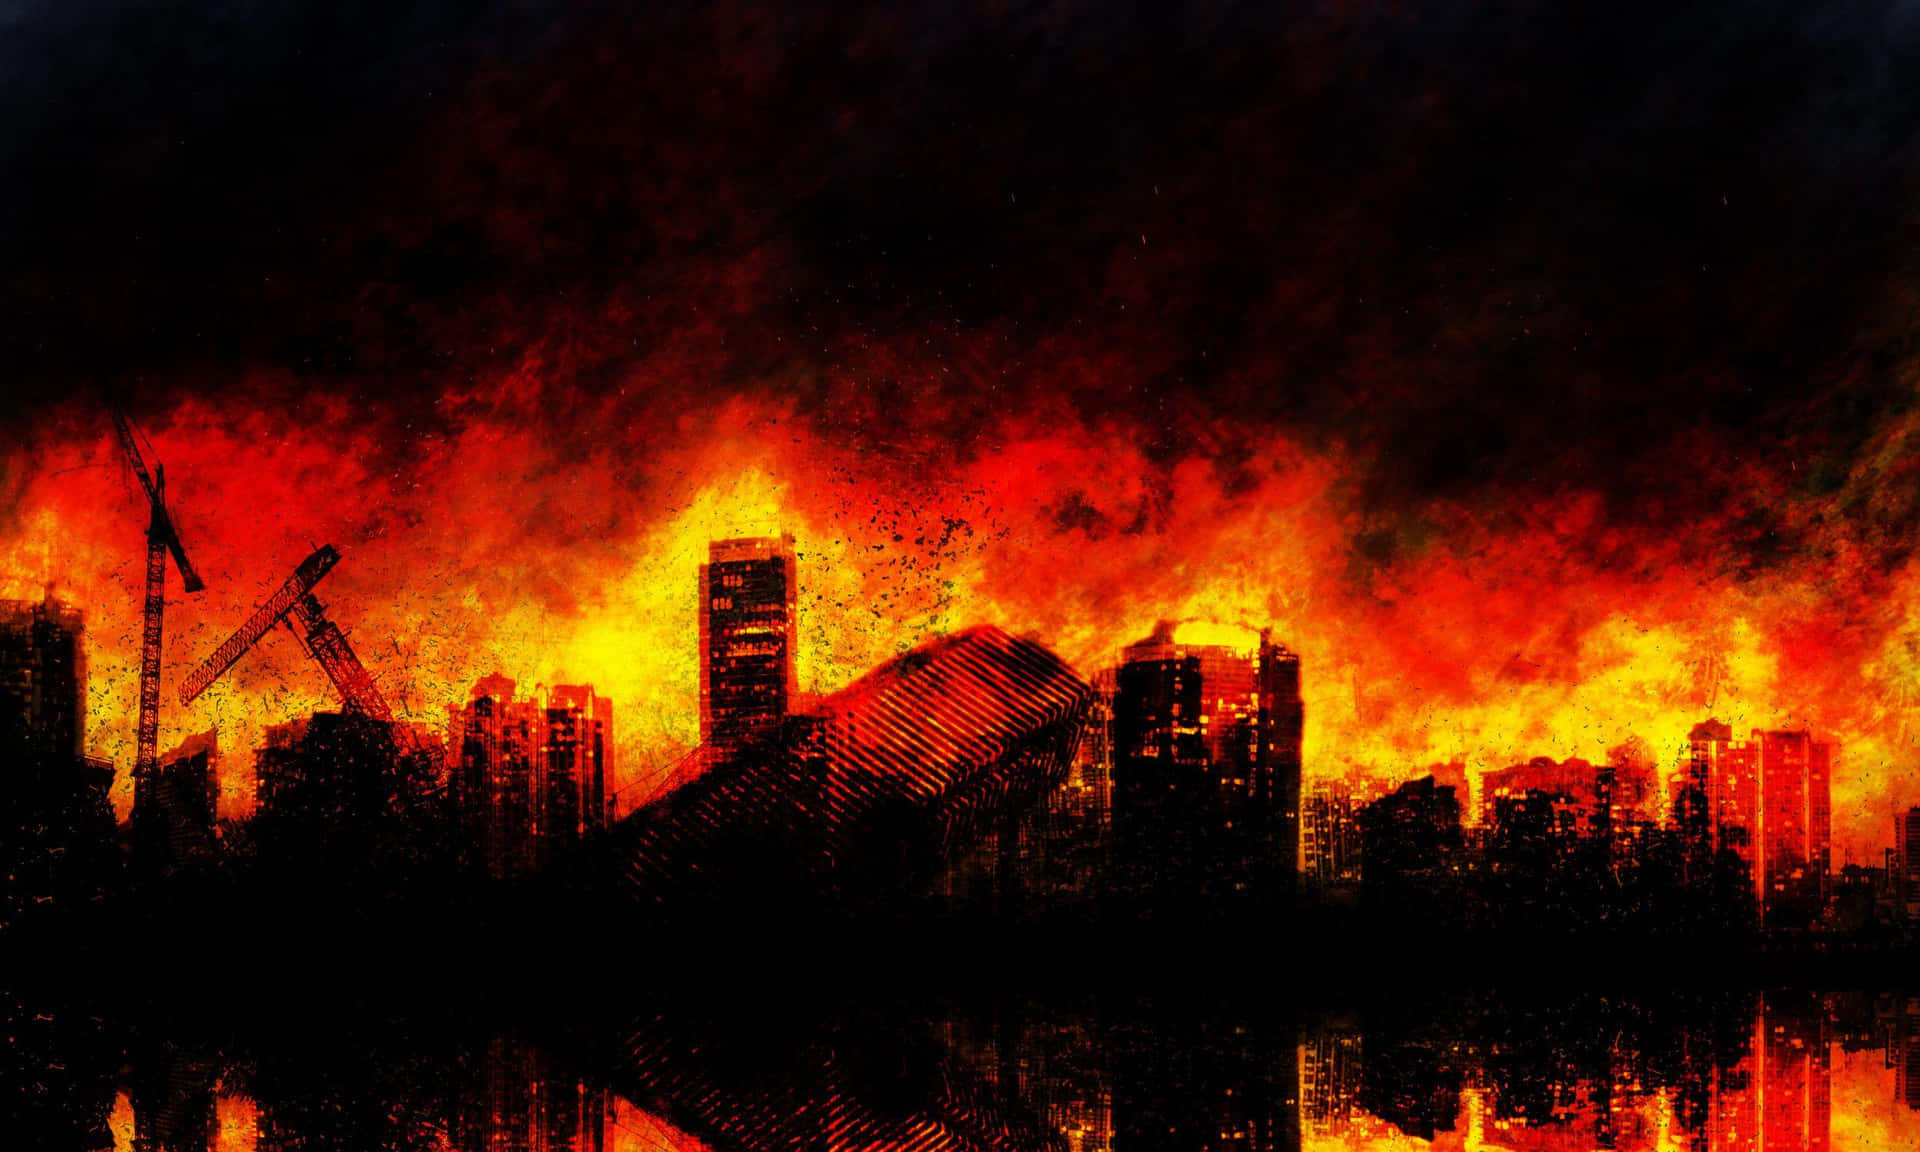
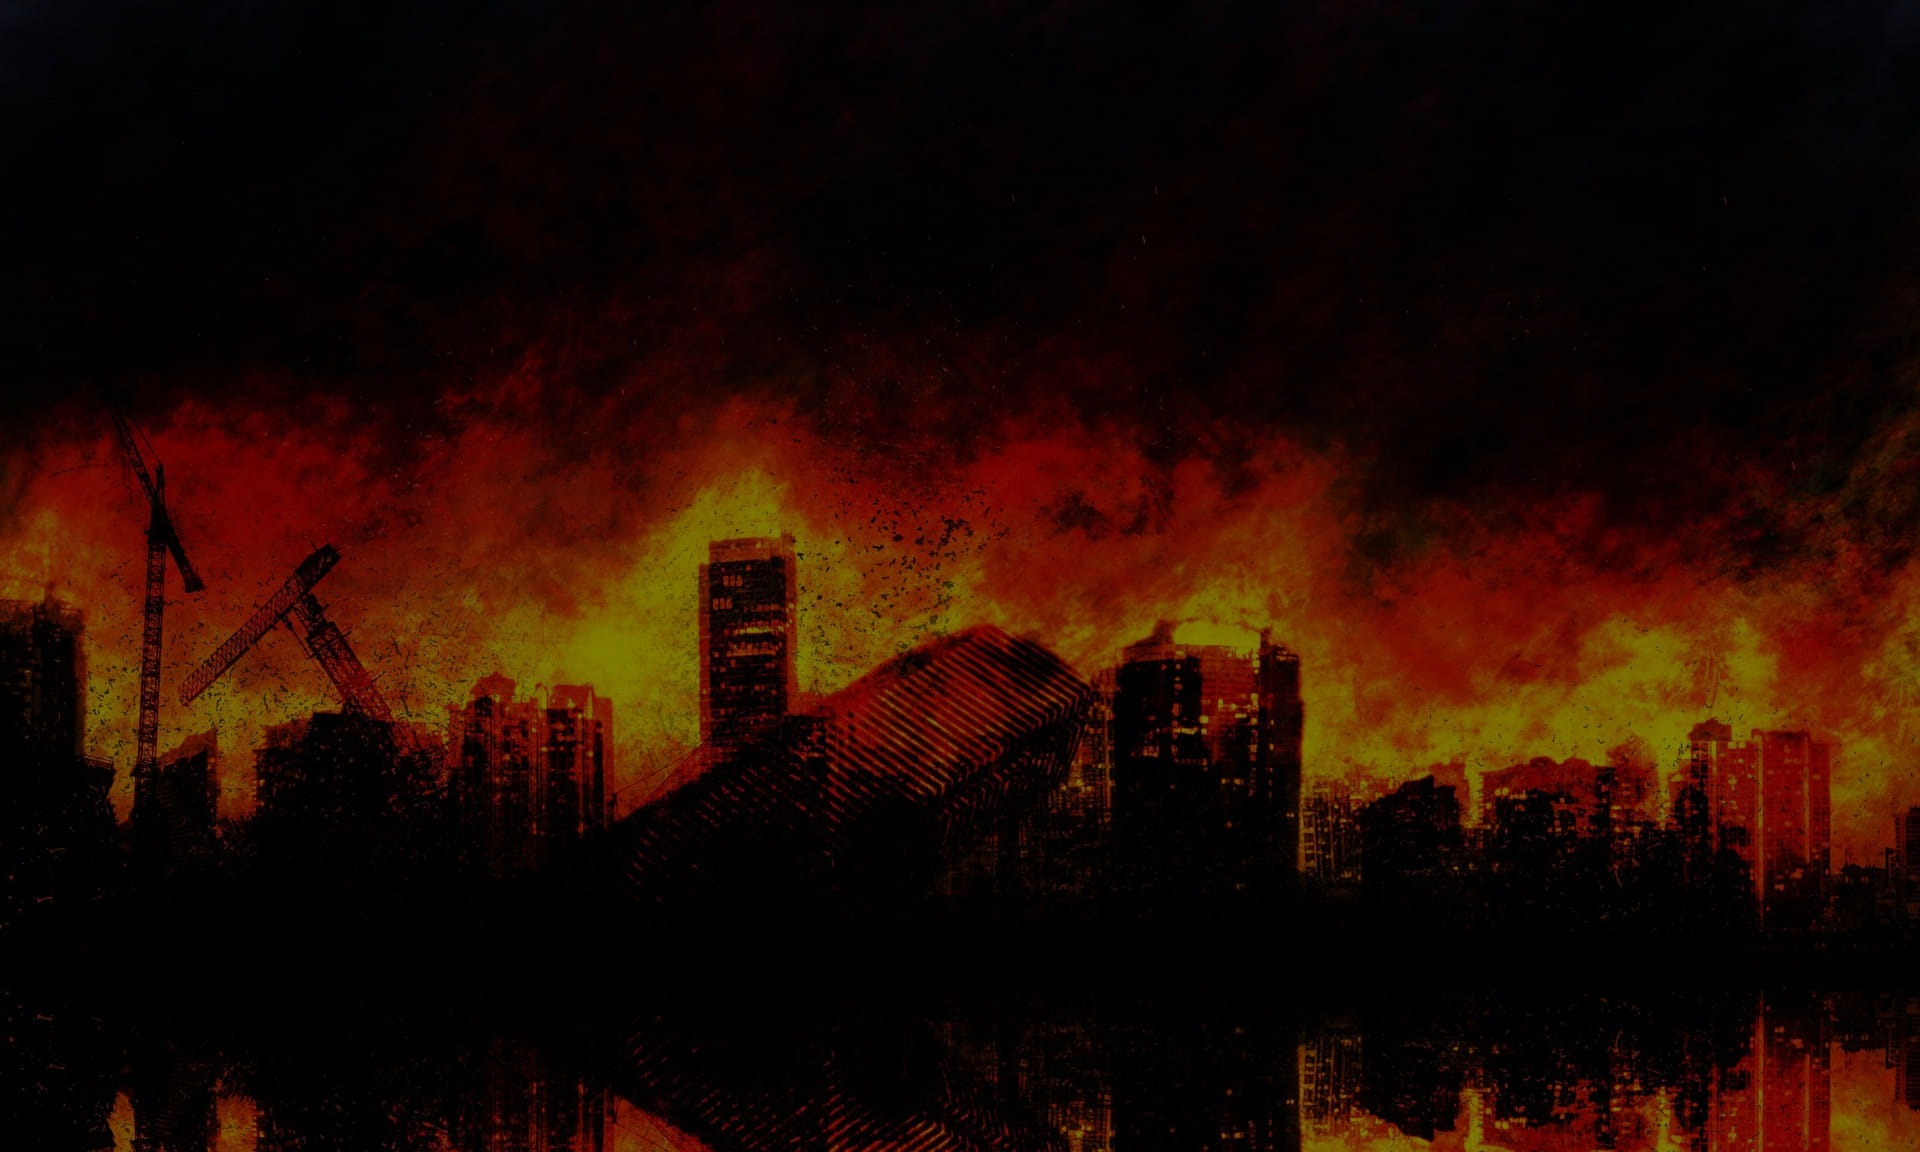
feat: add css to header and landing

diff --git a/m4fia.css b/m4fia.css
@@ -1,14 +1,35 @@
+* {
+  box-sizing: border-box;
+}
+
 body {
   margin: 0;
   padding: 0;
+  background-color: black;
 }
 
 header {
   display: flex;
   justify-content: space-between;
   align-items: center;
-  border-bottom: 1px solid rgba(0, 0, 0, 0.25);
+  background-color: rgba(0, 0, 0, 0.75);
+  border-bottom: 1px solid rgba(255, 255, 255, 0.25);
   padding: 0px 20px;
+  height: 75px;
+  position: fixed;
+  top: 0;
+  left: 0;
+  width: 100%;
+}
+
+header a {
+  text-decoration: none;
+  color: white;
+}
+
+header a:hover {
+  text-decoration: underline;
+  font-weight: bold;
 }
 
 nav ul {
@@ -19,31 +40,32 @@ nav ul {
   padding: 0;
 }
 
-a {
-  text-decoration: none;
-  color: black;
-}
-
-a:hover {
-  text-decoration: underline;
-  font-weight: bold;
-}
-
 main {
   display: flex;
-}
-
-main p,
-main h1 {
-  color: white;
+  padding-top: 75px;
 }
 
 .landing {
   min-height: 100vh;
-  background: url("images/landing-temporary.png");
+  min-width: 100%;
+  background: url("images/landing-temporary.png") center/cover no-repeat;
   display: flex;
   flex-direction: column;
   justify-content: center;
   align-items: center;
   text-align: center;
+}
+
+.italics {
+  font-style: italic;
+}
+
+.main-text {
+  font-size: 200px;
+  color: white;
+}
+
+.sub-text {
+  font-size: 25px;
+  color: #adadad;
 }

diff --git a/index.html b/index.html
@@ -35,17 +35,11 @@
       </nav>
     </header>
 
-    <main> <!-- To be updated -->
+    <main>
       <section class="landing">
-        <h1>M4FIA</h1>
-        <p>Clif's expansion of the classic social deduction game <span class="italics">'mafia'</span></p>
-        <p><span class=italics>"Speak wisely, Act carefully, Trust rarely"</span></p>
-
-        <aside class="home-table">
-          <p>Table of Contents</p>
-          <p>content 1</p>
-          <p>content 2</p>
-        </aside>
+        <p><span class="main-text">M4FIA</span></p>
+        <p><span class="sub-text">Clif's expansion of the classic social deduction game <span class="italics">'mafia'</span></span></p>
+        <p><span class="italics sub-text">"Speak wisely, Act carefully, Trust rarely"</span></p>
       </section>
 
       <section class="about">
